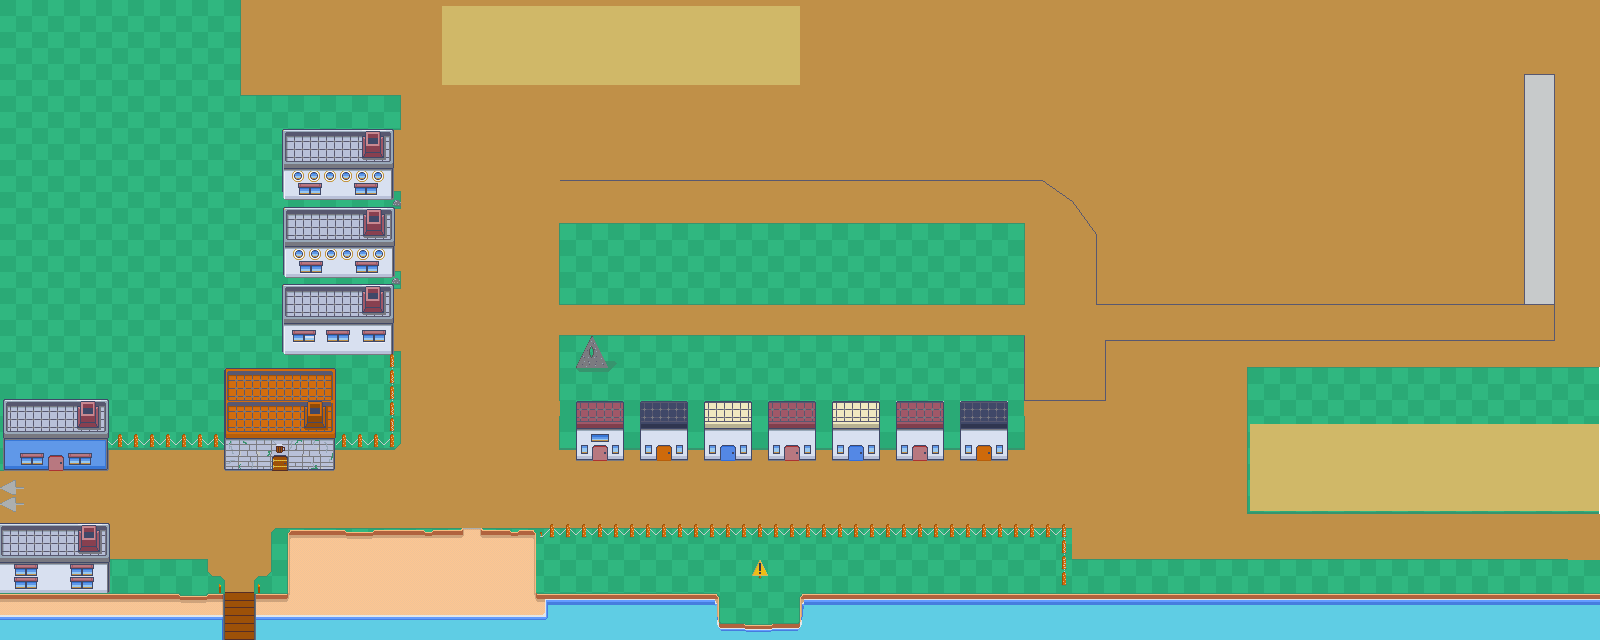
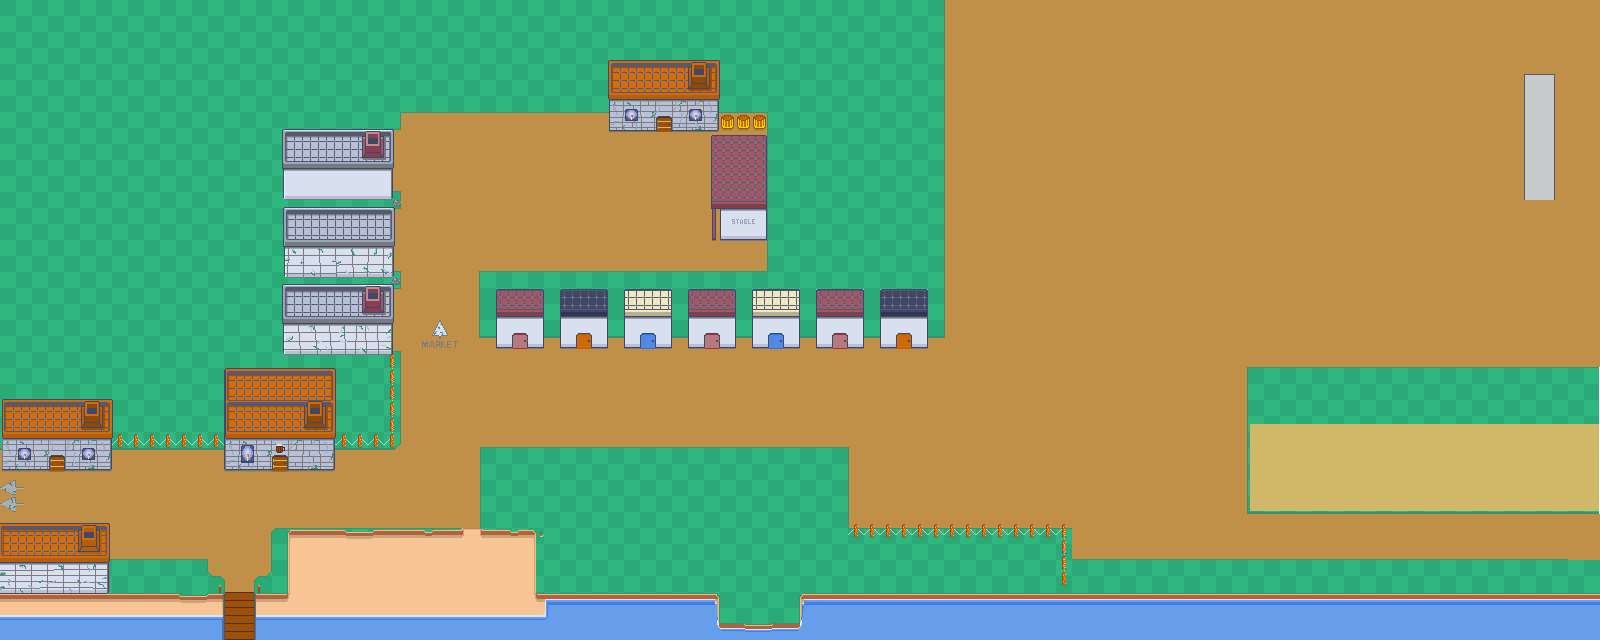
added stable and market area

diff --git a/OverworldMap.js b/OverworldMap.js
@@ -70,11 +70,11 @@ window.OverworldMaps = {
         src: "/PIOM/CHARS/rachel.png",
       }),
 
-      fisherman: new Person({
-        x: utils.withGrid(22),
-        y: utils.withGrid(38),
-        src: "/PIOM/CHARS/fisherman.png",
-      }),
+      // fisherman: new Person({
+      //   x: utils.withGrid(22),
+      //   y: utils.withGrid(38),
+      //   src: "/PIOM/CHARS/fisherman.png",
+      // }),
     },
     walls: {
       //  sea and bridge
@@ -185,7 +185,7 @@ window.OverworldMaps = {
       [utils.asGridCoord(14, 25)]: true,
       [utils.asGridCoord(17, 27)]: true,
       [utils.asGridCoord(17, 26)]: true,
-      // ^ tavern
+      // ^ tavern?
     },
   },
 };

diff --git a/Sprite.js b/Sprite.js
@@ -88,7 +88,7 @@ class Sprite {
 
   draw(ctx, cameraPerson) {
     const x = this.gameObject.x - 8 + utils.withGrid(10.5) - cameraPerson.x;
-    const y = this.gameObject.y - 18 + + utils.withGrid(6) - cameraPerson.y;
+    const y = this.gameObject.y - 18 + +utils.withGrid(6) - cameraPerson.y;
 
     this.isShadowLoaded && ctx.drawImage(this.shadow, x, y);
 

diff --git a/person.js b/person.js
@@ -17,7 +17,7 @@ class Person extends GameObject {
     if (this.movingProgressRemaining > 0) {
       this.updatePosition();
     } else {
-      //More cases for starting to walk will come here
+      //More cases for starting to walk tbc
       //
       //
 
